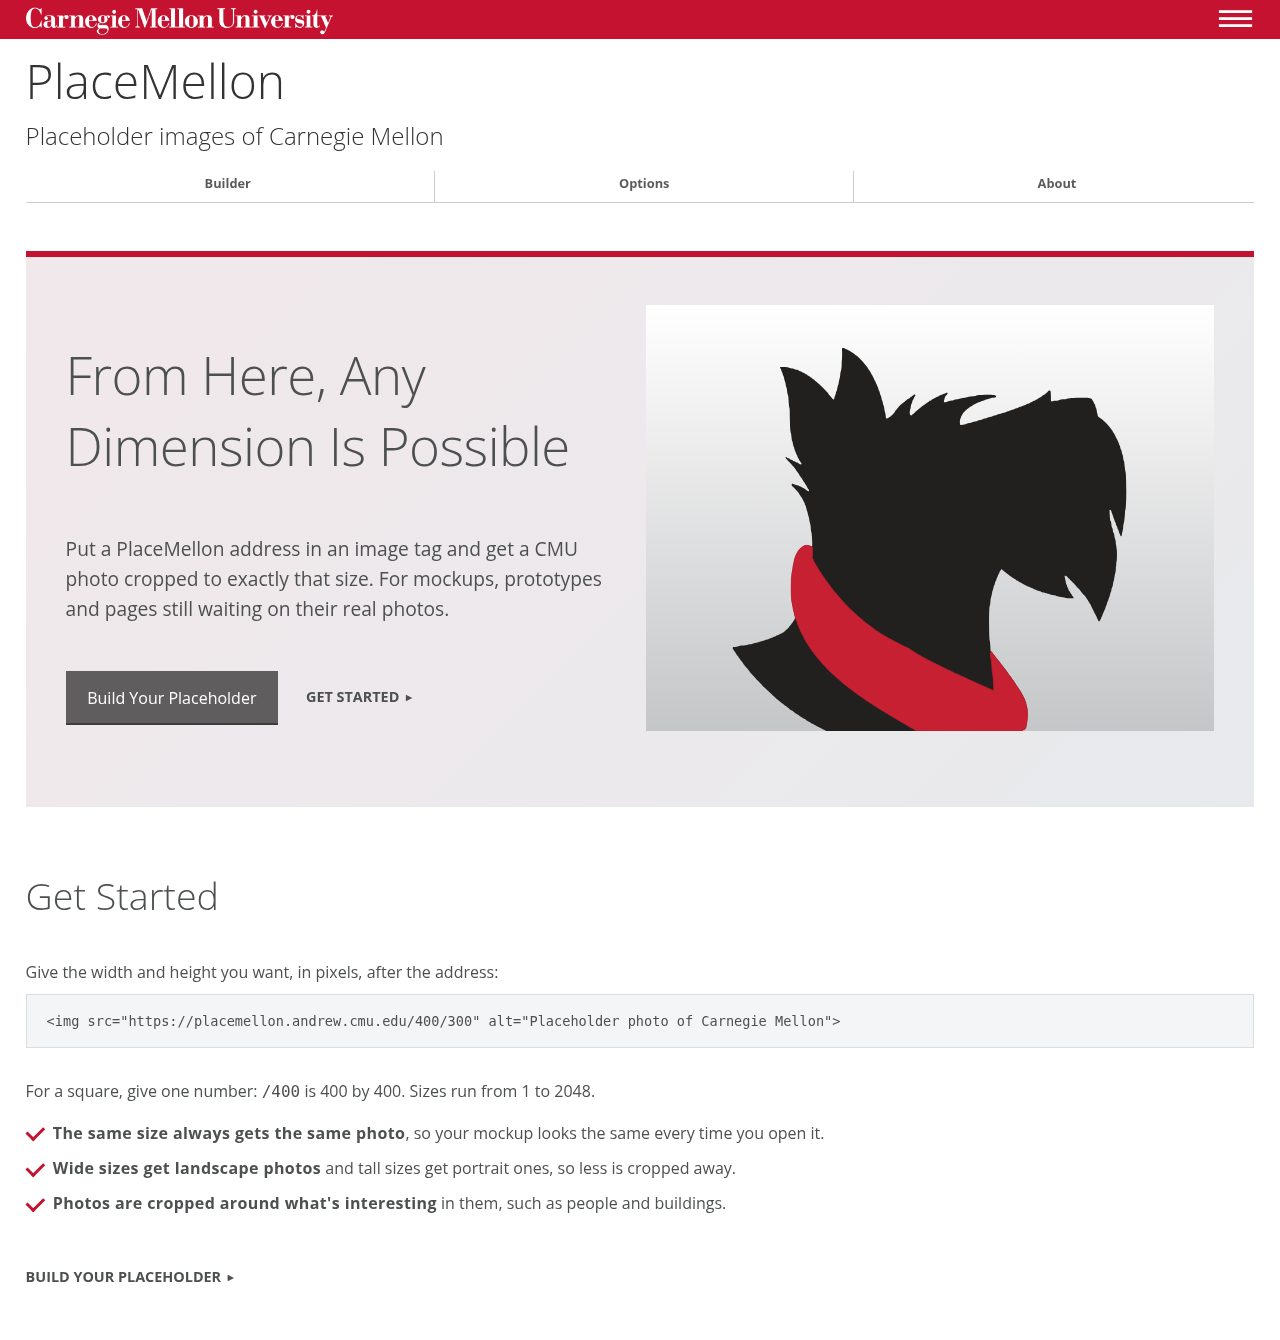
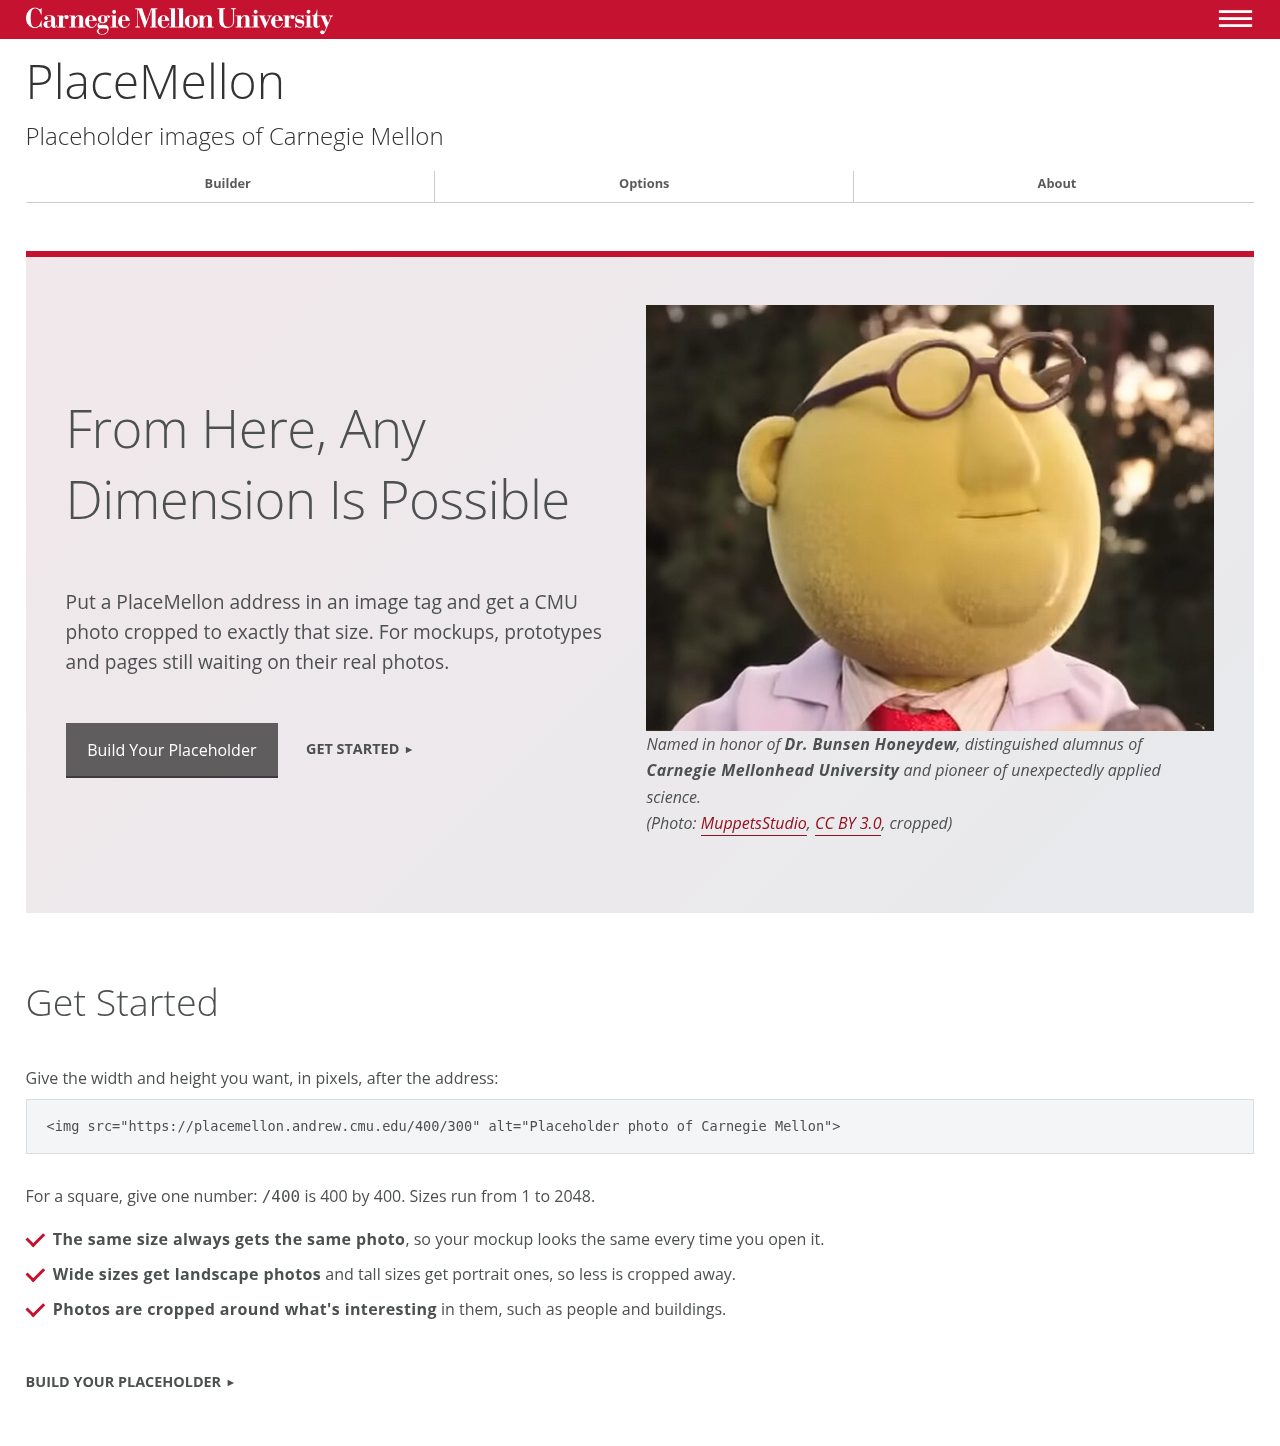
docs: Profile Picture, and the real PlaceMellon page in the annotated screenshot

diff --git a/docs/sections.html b/docs/sections.html
@@ -766,18 +766,18 @@
                 <p class="cmu-label">1. Site Name and Tabs</p>
                 <p>The service's name, a line about it and tabs for its few pages.</p>
               </li>
-              <li class="cmu-callout" style="--cmu-at: 0.39">
+              <li class="cmu-callout" style="--cmu-at: 0.4">
                 <p class="cmu-label">2. Hero</p>
                 <p>What it does in one sentence, a button into the builder and an example of what you get.</p>
               </li>
-              <li class="cmu-callout" style="--cmu-at: 0.8">
+              <li class="cmu-callout" style="--cmu-at: 0.81">
                 <p class="cmu-label">3. Get Started</p>
                 <p>The one line people copy, then three things to know about it.</p>
               </li>
             </ol>
           </div>
           <figure class="cmu-shot cmu-shot--browser">
-            <a href="images/annotated-placemellon-full.jpg" data-cmu-zoom><img src="images/annotated-placemellon.jpg" alt="A placeholder-image service's home page: the site name and three tabs, a hero with a Build Your Placeholder button beside Scotty, then a Get Started section with a line of code and three checks." width="900" height="942"></a>
+            <a href="images/annotated-placemellon-full.jpg" data-cmu-zoom><img src="images/annotated-placemellon.jpg" alt="A placeholder-image service's home page: the site name and three tabs, a hero with a Build Your Placeholder button beside a photo of a Muppet in glasses and its credit, then a Get Started section with a line of code and three checks." width="900" height="1017"></a>
             <figcaption>Select the screenshot to enlarge it.</figcaption>
           </figure>
         </div>

diff --git a/docs/accounts.html b/docs/accounts.html
@@ -139,7 +139,7 @@
             </p>
 
             <h2 id="photo" class="rule-top">
-              Profile Photo
+              Profile Picture
               <span class="kit-where"
                 ><span class="kit-where-app" title="Needs cmu-app.css and cmu-app on body"
                   >App</span
@@ -147,10 +147,11 @@
               >
             </h2>
             <p>
-              When the app knows your photo, put it before your name, round: small in the roof,
-              larger at the top of the menu. Add <code>cmu-avatar</code> to the image, with empty
-              <code>alt</code> text, since your name is right beside it. With no photo, leave the
-              image out rather than showing a blank one.
+              Your photo, also called an avatar or account photo. When the app knows it, put it
+              before your name, round: small in the roof, larger at the top of the menu. Add
+              <code>cmu-avatar</code> to the image, with empty <code>alt</code> text, since your
+              name is right beside it. With no photo, leave the image out rather than showing a
+              blank one.
               <a href="layout.html#try-header">Try it on this site's header.</a>
             </p>
             <p class="kit-classes"><code>cmu-avatar</code></p>

diff --git a/docs/components.html b/docs/components.html
@@ -660,7 +660,7 @@
                   <td></td>
                 </tr>
                 <tr>
-                  <td><a href="accounts.html#photo">Profile Photo</a></td>
+                  <td><a href="accounts.html#photo">Profile Picture</a></td>
                   <td class="cmu-fit">App</td>
                   <td>Accounts</td>
                   <td><code>cmu-avatar</code></td>
